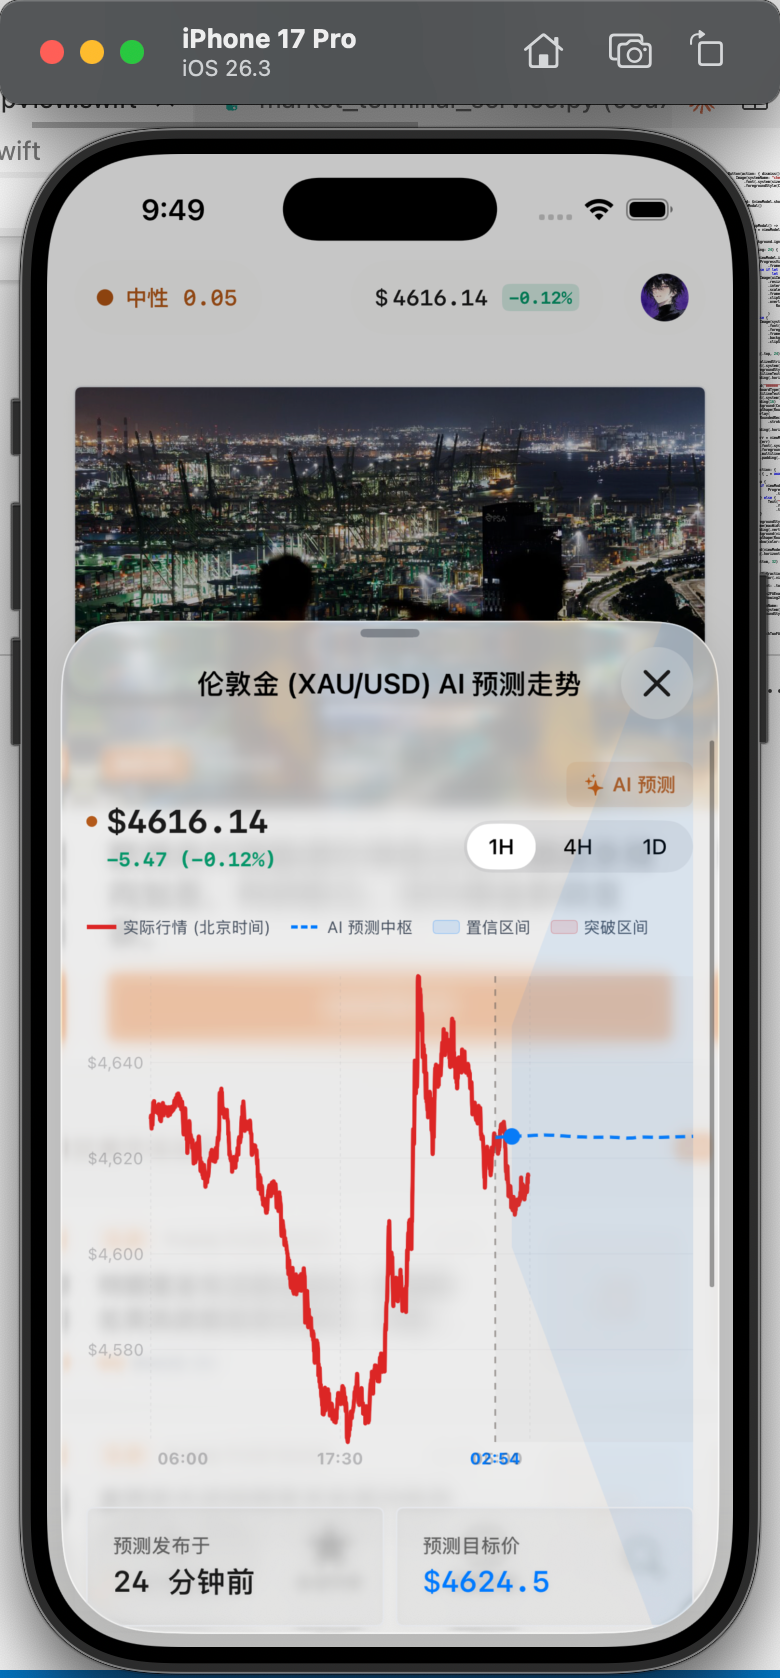
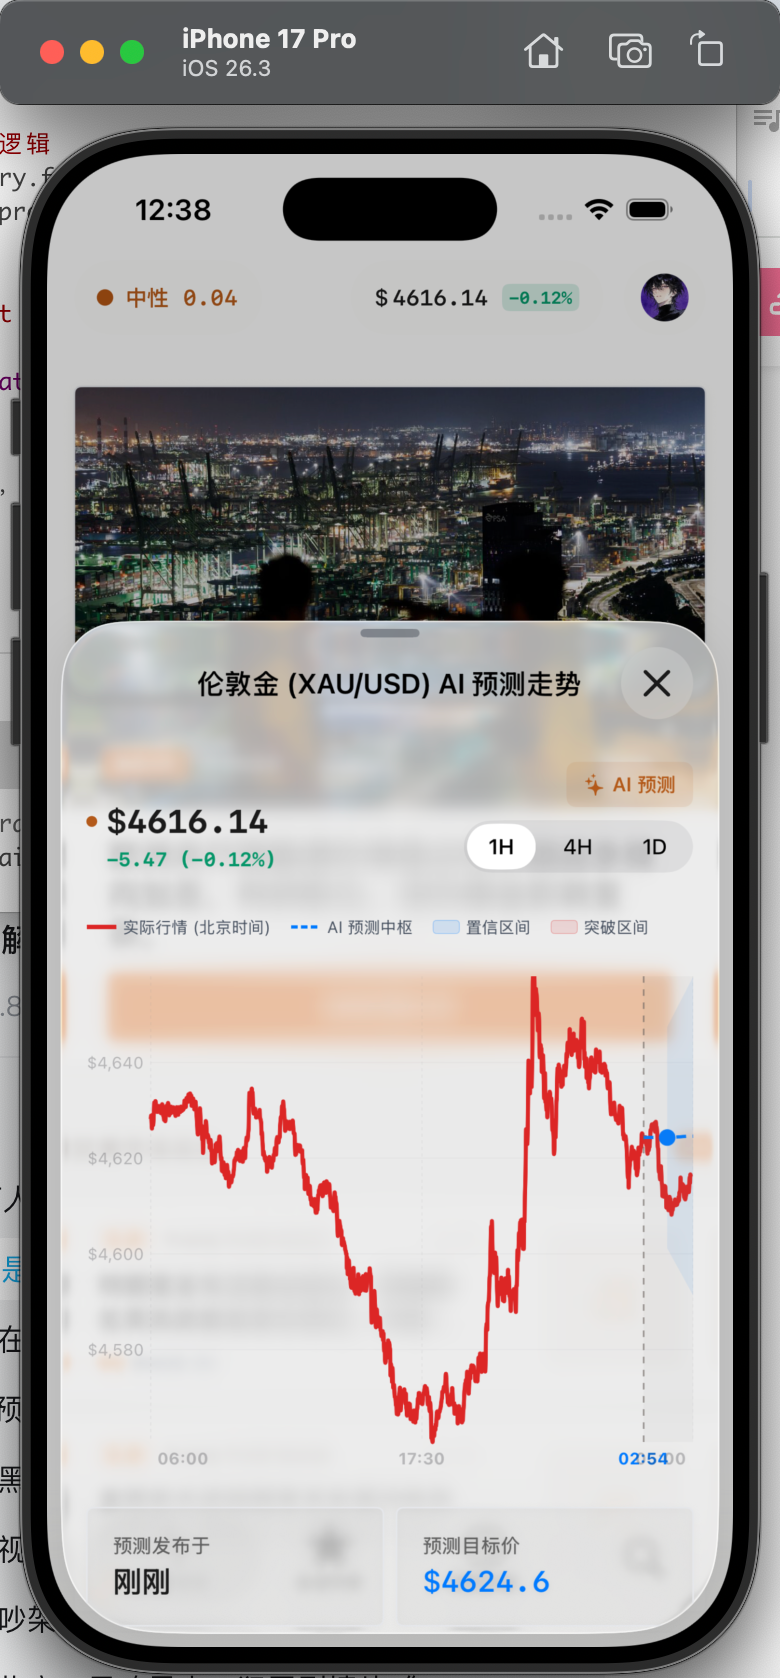
update

diff --git a/apps/mobile/ios/LucidPanda/LucidPanda/Features/Market/Components/GoldDeepAnalysisSheet.swift b/apps/mobile/ios/LucidPanda/LucidPanda/Features/Market/Components/GoldDeepAnalysisSheet.swift
@@ -245,19 +245,22 @@ public struct GoldDeepAnalysisSheet: View {
                         let granularity = data.granularity ?? "1h"
                         if granularity == "1h" {
                             let calendar = beijingCalendar
-                            // 计算当前预测点所属的交易日起点 (06:00)
                             let issuedAt = data.prediction.issuedAt
-                            var start = calendar.date(bySettingHour: 6, minute: 0, second: 0, of: issuedAt) ?? issuedAt
                             
-                            if start > issuedAt && calendar.date(byAdding: .hour, value: -2, to: start)! > issuedAt {
-                                start = calendar.date(byAdding: .day, value: -1, to: start)!
-                            }
+                            // 交易日起点 (06:00)
+                            let start = {
+                                let base = calendar.date(bySettingHour: 6, minute: 0, second: 0, of: issuedAt)!
+                                if base > issuedAt && calendar.date(byAdding: .hour, value: -1, to: base)! > issuedAt {
+                                    return calendar.date(byAdding: .day, value: -1, to: base)!
+                                }
+                                return base
+                            }()
                             
+                            // 交易日终点 (次日 05:00)
                             let end = calendar.date(byAdding: .hour, value: 23, to: start)!
-                            let historyDates = data.history.map { $0.timestamp }
-                            let minDate = historyDates.min() ?? start
                             
-                            return min(start, minDate)...end
+                            // 锁定 Domain：严格从 06:00 到 05:00，确保 17:30 居中
+                            return start...end
                         }
                         return (data.history.first?.timestamp ?? .distantPast)...(data.prediction.mid.last?.timestamp ?? .distantFuture)
                     }())
@@ -299,10 +302,10 @@ public struct GoldDeepAnalysisSheet: View {
             let calendar = beijingCalendar
             let issuedAt = data.prediction.issuedAt
             
-            // 核心逻辑同步：确定当前展示周期的起点
+            // 严格同步起点确定逻辑
             let startNode: Date = {
                 let base = calendar.date(bySettingHour: 6, minute: 0, second: 0, of: issuedAt)!
-                if base > issuedAt && calendar.date(byAdding: .hour, value: -2, to: base)! > issuedAt {
+                if base > issuedAt && calendar.date(byAdding: .hour, value: -1, to: base)! > issuedAt {
                     return calendar.date(byAdding: .day, value: -1, to: base)!
                 }
                 return base
@@ -311,25 +314,31 @@ public struct GoldDeepAnalysisSheet: View {
             let midNode = calendar.date(bySettingHour: 17, minute: 30, second: 0, of: startNode)!
             let endNode = calendar.date(byAdding: .hour, value: 23, to: startNode)!
             
-            // 1. 核心分界点：预测发布
-            AxisMarks(values: [issuedAt]) { _ in
-                AxisGridLine(stroke: StrokeStyle(lineWidth: 1, dash: [4, 4]))
-                    .foregroundStyle(pivotLineColor)
-            }
-            
-            // 2. 固定交易节点：06:00, 17:30, 05:00
+            // 1. 固定交易节点：06:00, 17:30, 05:00
             AxisMarks(values: [startNode, midNode, endNode]) { value in
                 if let date = value.as(Date.self) {
                     AxisGridLine(stroke: StrokeStyle(lineWidth: 0.5, dash: [2, 2]))
                         .foregroundStyle(Color.gray.opacity(0.15))
                     
-                    let labelAnchor: UnitPoint = (date == endNode) ? .topTrailing : (date == startNode ? .topLeading : .top)
+                    let labelAnchor: UnitPoint = {
+                        if date == startNode { return .topLeading }
+                        if date == endNode { return .topTrailing }
+                        return .top
+                    }()
                     
                     AxisValueLabel(anchor: labelAnchor) {
                         Text(formatBeijingTime(date))
                             .font(.system(size: 10, weight: .bold))
                             .foregroundStyle(.secondary)
                     }
+                }
+            }
+            
+            // 2. 预测分界线（仅在非休市显示）
+            if data.marketStatus != "CLOSED" {
+                AxisMarks(values: [issuedAt]) { _ in
+                    AxisGridLine(stroke: StrokeStyle(lineWidth: 1, dash: [4, 4]))
+                        .foregroundStyle(pivotLineColor)
                 }
             }
             
@@ -372,14 +381,21 @@ public struct GoldDeepAnalysisSheet: View {
         let mid = data.prediction.mid
         let upper = data.prediction.upper
         let lower = data.prediction.lower
+        let granularity = data.granularity ?? "1h"
+        let isMarketClosed = data.marketStatus == "CLOSED"
         
-        ForEach(mid.indices, id: \.self) { i in
-            AreaMark(
-                x: .value("Time", mid[i].timestamp),
-                yStart: .value("Lower", lower[i].price),
-                yEnd: .value("Upper", upper[i].price)
-            )
-            .foregroundStyle(confidenceFillColor)
+        // 1H 模式下，休市期间不显示预测区域
+        if granularity == "1h" && isMarketClosed {
+            // Empty
+        } else {
+            ForEach(mid.indices, id: \.self) { i in
+                AreaMark(
+                    x: .value("Time", mid[i].timestamp),
+                    yStart: .value("Lower", lower[i].price),
+                    yEnd: .value("Upper", upper[i].price)
+                )
+                .foregroundStyle(confidenceFillColor)
+            }
         }
     }
 
@@ -390,26 +406,33 @@ public struct GoldDeepAnalysisSheet: View {
         let lower = data.prediction.lower
         let predictionStart = data.prediction.issuedAt
         let historyAfter = data.history.filter { $0.timestamp >= predictionStart }
+        let granularity = data.granularity ?? "1h"
+        let isMarketClosed = data.marketStatus == "CLOSED"
         
-        ForEach(historyAfter) { p in
-            if let i = mid.firstIndex(where: { abs($0.timestamp.timeIntervalSince(p.timestamp)) < 1800 }) {
-                let upVal = upper[i].price
-                let loVal = lower[i].price
-                
-                if p.price > upVal {
-                    AreaMark(
-                        x: .value("Time", p.timestamp),
-                        yStart: .value("Base", upVal),
-                        yEnd: .value("Value", p.price)
-                    )
-                    .foregroundStyle(breakoutFillColor)
-                } else if p.price < loVal {
-                    AreaMark(
-                        x: .value("Time", p.timestamp),
-                        yStart: .value("Base", loVal),
-                        yEnd: .value("Value", p.price)
-                    )
-                    .foregroundStyle(breakoutFillColor)
+        // 1H 模式下，休市期间不显示
+        if granularity == "1h" && isMarketClosed {
+            // Empty
+        } else {
+            ForEach(historyAfter) { p in
+                if let i = mid.firstIndex(where: { abs($0.timestamp.timeIntervalSince(p.timestamp)) < 1800 }) {
+                    let upVal = upper[i].price
+                    let loVal = lower[i].price
+                    
+                    if p.price > upVal {
+                        AreaMark(
+                            x: .value("Time", p.timestamp),
+                            yStart: .value("Base", upVal),
+                            yEnd: .value("Value", p.price)
+                        )
+                        .foregroundStyle(breakoutFillColor)
+                    } else if p.price < loVal {
+                        AreaMark(
+                            x: .value("Time", p.timestamp),
+                            yStart: .value("Base", loVal),
+                            yEnd: .value("Value", p.price)
+                        )
+                        .foregroundStyle(breakoutFillColor)
+                    }
                 }
             }
         }
@@ -433,61 +456,76 @@ public struct GoldDeepAnalysisSheet: View {
 
     @ChartContentBuilder
     private func predictionLine(_ data: GoldPredictionResponse) -> some ChartContent {
-        let futureMid = data.prediction.mid
-            .filter { $0.timestamp >= data.prediction.issuedAt }
-            .sorted { $0.timestamp < $1.timestamp }
+        let granularity = data.granularity ?? "1h"
+        let isMarketClosed = data.marketStatus == "CLOSED"
+        
+        // 1H 模式下，休市期间不显示预测线
+        if granularity == "1h" && isMarketClosed {
+            // Empty
+        } else {
+            let futureMid = data.prediction.mid
+                .filter { $0.timestamp >= data.prediction.issuedAt }
+                .sorted { $0.timestamp < $1.timestamp }
+                
+            let connectingPoint = data.history
+                .filter { $0.timestamp <= data.prediction.issuedAt }
+                .max(by: { $0.timestamp < $1.timestamp })
             
-        let connectingPoint = data.history
-            .filter { $0.timestamp <= data.prediction.issuedAt }
-            .max(by: { $0.timestamp < $1.timestamp })
-        
-        if let startPoint = connectingPoint {
-            LineMark(
-                x: .value("Time", startPoint.timestamp),
-                y: .value("Price", startPoint.price),
-                series: .value("Series", "Prediction")
-            )
-            .interpolationMethod(.monotone)
-            .foregroundStyle(predictionLineColor)
-            .lineStyle(StrokeStyle(lineWidth: 2, dash: [6, 4]))
-        }
-        
-        ForEach(futureMid) { p in
-            LineMark(
-                x: .value("Time", p.timestamp),
-                y: .value("Price", p.price),
-                series: .value("Series", "Prediction")
-            )
-            .interpolationMethod(.monotone)
-            .foregroundStyle(predictionLineColor)
-            .lineStyle(StrokeStyle(lineWidth: 2, dash: [6, 4]))
+            if let startPoint = connectingPoint {
+                LineMark(
+                    x: .value("Time", startPoint.timestamp),
+                    y: .value("Price", startPoint.price),
+                    series: .value("Series", "Prediction")
+                )
+                .interpolationMethod(.monotone)
+                .foregroundStyle(predictionLineColor)
+                .lineStyle(StrokeStyle(lineWidth: 2, dash: [6, 4]))
+            }
+            
+            ForEach(futureMid) { p in
+                LineMark(
+                    x: .value("Time", p.timestamp),
+                    y: .value("Price", p.price),
+                    series: .value("Series", "Prediction")
+                )
+                .interpolationMethod(.monotone)
+                .foregroundStyle(predictionLineColor)
+                .lineStyle(StrokeStyle(lineWidth: 2, dash: [6, 4]))
+            }
         }
     }
 
     @ChartContentBuilder
     private func pivotMarkers(_ data: GoldPredictionResponse) -> some ChartContent {
-        let futureMid = data.prediction.mid.filter { $0.timestamp >= data.prediction.issuedAt }
-        let connectingPoint = data.history.last(where: { $0.timestamp <= data.prediction.issuedAt })
+        let granularity = data.granularity ?? "1h"
+        let isMarketClosed = data.marketStatus == "CLOSED"
         
-        if let pivotPoint = futureMid.first ?? connectingPoint.map({ GoldPricePoint(timestamp: $0.timestamp, price: $0.price) }) {
-            PointMark(
-                x: .value("Time", pivotPoint.timestamp),
-                y: .value("Price", pivotPoint.price)
-            )
-            .symbolSize(80)
-            .foregroundStyle(predictionLineColor)
-        }
-        
-        RuleMark(x: .value("Pivot", data.prediction.issuedAt))
-            .foregroundStyle(pivotLineColor)
-            .lineStyle(StrokeStyle(lineWidth: 1, dash: [4, 4]))
-        
-        if let lastTime = data.prediction.mid.last?.timestamp {
-            RectangleMark(
-                xStart: .value("Start", data.prediction.issuedAt),
-                xEnd: .value("End", lastTime)
-            )
-            .foregroundStyle(Color(hex: "#888780").opacity(0.06))
+        if granularity == "1h" && isMarketClosed {
+            // 休市期间不显示预测发布时刻的点和垂直线
+        } else {
+            let futureMid = data.prediction.mid.filter { $0.timestamp >= data.prediction.issuedAt }
+            let connectingPoint = data.history.last(where: { $0.timestamp <= data.prediction.issuedAt })
+            
+            if let pivotPoint = futureMid.first ?? connectingPoint.map({ GoldPricePoint(timestamp: $0.timestamp, price: $0.price) }) {
+                PointMark(
+                    x: .value("Time", pivotPoint.timestamp),
+                    y: .value("Price", pivotPoint.price)
+                )
+                .symbolSize(80)
+                .foregroundStyle(predictionLineColor)
+            }
+            
+            RuleMark(x: .value("Pivot", data.prediction.issuedAt))
+                .foregroundStyle(pivotLineColor)
+                .lineStyle(StrokeStyle(lineWidth: 1, dash: [4, 4]))
+            
+            if let lastTime = data.prediction.mid.last?.timestamp {
+                RectangleMark(
+                    xStart: .value("Start", data.prediction.issuedAt),
+                    xEnd: .value("End", lastTime)
+                )
+                .foregroundStyle(Color(hex: "#888780").opacity(0.06))
+            }
         }
     }
 
@@ -496,17 +534,26 @@ public struct GoldDeepAnalysisSheet: View {
         if let selectedDate {
             let historyPoints = data.history.map { GoldPricePoint(timestamp: $0.timestamp, price: $0.price) }
             let allPoints = historyPoints + data.prediction.mid
+            let granularity = data.granularity ?? "1h"
+            let isMarketClosed = data.marketStatus == "CLOSED"
             
             if let closest = allPoints.min(by: { abs($0.timestamp.timeIntervalSince(selectedDate)) < abs($1.timestamp.timeIntervalSince(selectedDate)) }) {
-                RuleMark(x: .value("Selected Time", closest.timestamp))
-                    .foregroundStyle(Color.Alpha.textPrimary.opacity(0.15))
-                    .lineStyle(StrokeStyle(lineWidth: 1, dash: [4, 4]))
-                RuleMark(y: .value("Selected Price", closest.price))
-                    .foregroundStyle(Color.Alpha.textPrimary.opacity(0.15))
-                    .lineStyle(StrokeStyle(lineWidth: 1, dash: [4, 4]))
-                PointMark(x: .value("Time", closest.timestamp), y: .value("Price", closest.price))
-                    .foregroundStyle(closest.timestamp <= data.prediction.issuedAt ? actualLineColor : predictionLineColor)
-                    .symbolSize(60)
+                let isPredictionPoint = closest.timestamp > data.prediction.issuedAt
+                
+                // 1H 休市期间，如果长按的是预测点，不显示十字准星
+                if granularity == "1h" && isMarketClosed && isPredictionPoint {
+                    // Empty
+                } else {
+                    RuleMark(x: .value("Selected Time", closest.timestamp))
+                        .foregroundStyle(Color.Alpha.textPrimary.opacity(0.15))
+                        .lineStyle(StrokeStyle(lineWidth: 1, dash: [4, 4]))
+                    RuleMark(y: .value("Selected Price", closest.price))
+                        .foregroundStyle(Color.Alpha.textPrimary.opacity(0.15))
+                        .lineStyle(StrokeStyle(lineWidth: 1, dash: [4, 4]))
+                    PointMark(x: .value("Time", closest.timestamp), y: .value("Price", closest.price))
+                        .foregroundStyle(closest.timestamp <= data.prediction.issuedAt ? actualLineColor : predictionLineColor)
+                        .symbolSize(60)
+                }
             }
         }
     }
